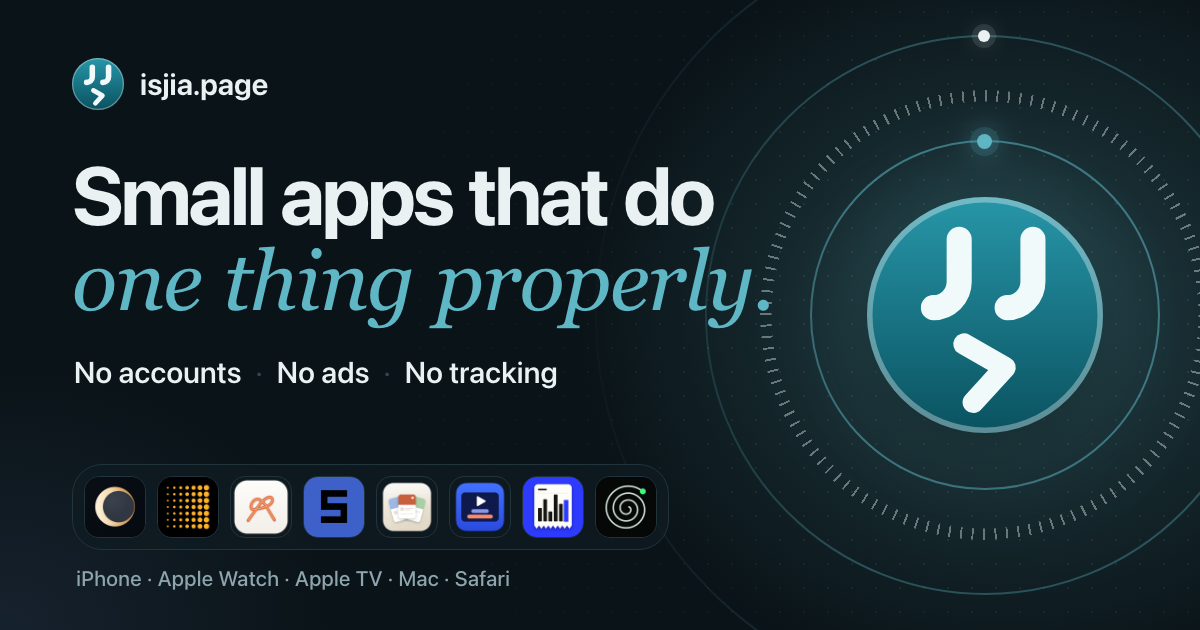
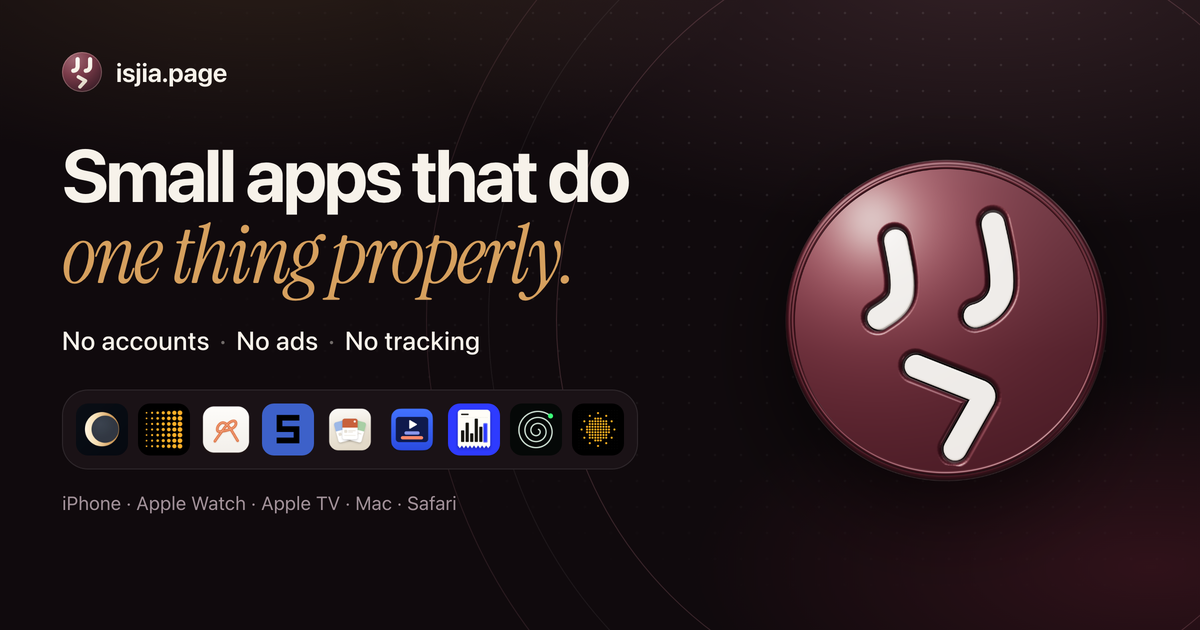
Replace the brand mark with the 3D oxblood disc and retune the palette
- Ship the JJ+">" mark as a satin-metal oxblood 3D disc (three.js render,
  exported 1024/512/180 + 4096 master); keep the flat vector for ≤32 px
- New favicon.svg/favicon-32.png/favicon.ico from the flat mark; the
  Apple touch icon is the 3D disc cropped to the disc and bled opaque
- Rebuild og-home.png at 1200×630 with the 3D mark and all nine app icons
- Palette "oxblood & bone": bone paper light theme (#f7f3ec / accent
  #7a2437), wine-black dark theme (#0e090b / accent #e0919f), stage
  tokens and hard-coded glows/bezel retuned to match
- theme-color metadata follows the new bg on all 20 pages
- DESIGN.md: round 4 notes, measured contrast and what was not verified

diff --git a/assets/style.css b/assets/style.css
@@ -9,24 +9,24 @@
 }
 
 :root {
-  --bg: #f8fafc;
-  --bg-soft: #f1f5f9;
-  --ink: #0f172a;
-  --ink-soft: #334155;
-  --muted: #64748b;
-  --card: #ffffff;
-  --line: #e2e8f0;
-  --line-strong: #cbd5e1;
-  --accent: #0284c7;
-  --accent-warm: #d97706;
-  --on-accent: #ffffff;
-  --accent-soft: rgba(2, 132, 199, 0.08);
-  --glow-a: rgba(2, 132, 199, 0.12);
-  --glow-b: rgba(217, 119, 6, 0.08);
-  --grid-dot: rgba(15, 23, 42, 0.05);
-  --grid-line: rgba(15, 23, 42, 0.02);
-  --shadow: 0 1px 2px rgba(15, 23, 42, 0.04), 0 12px 32px -20px rgba(15, 23, 42, 0.10);
-  --shadow-lift: 0 2px 4px rgba(15, 23, 42, 0.05), 0 24px 48px -24px rgba(15, 23, 42, 0.16);
+  --bg: #f7f3ec;
+  --bg-soft: #efe7dc;
+  --ink: #1d1216;
+  --ink-soft: #3a2b30;
+  --muted: #6e5b61;
+  --card: #fffdf9;
+  --line: #e6dbcf;
+  --line-strong: #d3c3b2;
+  --accent: #7a2437;
+  --accent-warm: #8a5d26;
+  --on-accent: #fdf8f1;
+  --accent-soft: rgba(122, 36, 55, 0.08);
+  --glow-a: rgba(122, 36, 55, 0.12);
+  --glow-b: rgba(138, 93, 38, 0.09);
+  --grid-dot: rgba(45, 25, 32, 0.06);
+  --grid-line: rgba(45, 25, 32, 0.022);
+  --shadow: 0 1px 2px rgba(45, 25, 32, 0.05), 0 12px 32px -20px rgba(45, 25, 32, 0.12);
+  --shadow-lift: 0 2px 4px rgba(45, 25, 32, 0.06), 0 24px 48px -24px rgba(45, 25, 32, 0.18);
   --radius: 18px;
   --app-accent: var(--accent);
   --serif: "Instrument Serif", ui-serif, "New York", "Iowan Old Style", Georgia, serif;
@@ -36,20 +36,20 @@
 
 @media (prefers-color-scheme: dark) {
   :root {
-    --bg: #090a10;
-    --bg-soft: #11131c;
-    --ink: #f8fafc;
-    --ink-soft: #cbd5e1;
-    --muted: #8290a5;
-    --card: #131622;
+    --bg: #0e090b;
+    --bg-soft: #171014;
+    --ink: #f7f2ea;
+    --ink-soft: #d8cbcd;
+    --muted: #a3929a;
+    --card: #191215;
     --line: rgba(255, 255, 255, 0.08);
     --line-strong: rgba(255, 255, 255, 0.16);
-    --accent: #38bdf8;
-    --accent-warm: #fbbf24;
-    --on-accent: #050811;
-    --accent-soft: rgba(56, 189, 248, 0.12);
-    --glow-a: rgba(56, 189, 248, 0.18);
-    --glow-b: rgba(245, 158, 11, 0.14);
+    --accent: #e0919f;
+    --accent-warm: #d6a05e;
+    --on-accent: #14090d;
+    --accent-soft: rgba(224, 145, 159, 0.12);
+    --glow-a: rgba(224, 145, 159, 0.16);
+    --glow-b: rgba(214, 160, 94, 0.12);
     --grid-dot: rgba(255, 255, 255, 0.08);
     --grid-line: rgba(255, 255, 255, 0.025);
     --shadow: 0 1px 2px rgba(0, 0, 0, 0.5), 0 16px 40px -20px rgba(0, 0, 0, 0.85);
@@ -101,13 +101,13 @@ img { max-width: 100%; display: block; }
 /* ---------- stage-local colours: cosmic dark-theme values shared by dark surfaces. ---------- */
 
 .stage, .shot-stage, .cta-band, .card.feature, .media {
-  --st-bg: #090a10;
-  --st-card: #131622;
-  --st-ink: #f8fafc;
-  --st-muted: #8290a5;
+  --st-bg: #100a0d;
+  --st-card: #1a1216;
+  --st-ink: #f7f2ea;
+  --st-muted: #a3929a;
   --st-line: rgba(255, 255, 255, 0.08);
-  --st-accent: #38bdf8;
-  --st-accent-warm: #fbbf24;
+  --st-accent: #e0919f;
+  --st-accent-warm: #d6a05e;
 }
 
 /* celestial dual-glow + precision dot-matrix shared by dark stages */
@@ -118,8 +118,8 @@ img { max-width: 100%; display: block; }
   z-index: -1;
   pointer-events: none;
   background:
-    radial-gradient(60% 50% at 30% -5%, rgba(245, 158, 11, 0.16), transparent 70%),
-    radial-gradient(70% 55% at 75% 0%, rgba(56, 189, 248, 0.18), transparent 72%),
+    radial-gradient(60% 50% at 30% -5%, rgba(214, 160, 94, 0.16), transparent 70%),
+    radial-gradient(70% 55% at 75% 0%, rgba(224, 145, 159, 0.18), transparent 72%),
     radial-gradient(var(--grid-dot) 1px, transparent 1.5px) 0 0 / 22px 22px;
   -webkit-mask-image: radial-gradient(95% 100% at 50% 0%, #000 30%, transparent 100%);
   mask-image: radial-gradient(95% 100% at 50% 0%, #000 30%, transparent 100%);
@@ -482,8 +482,8 @@ section.block { padding: 96px 22px 8px; }
   width: clamp(104px, 20vw, 236px);
   border-radius: 14% / 6.5%;
   overflow: hidden;
-  background: #05090b;
-  box-shadow: 0 0 0 5px #05090b, 0 0 0 6px rgba(255, 255, 255, 0.16), 0 36px 60px -24px rgba(0, 0, 0, 0.8);
+  background: #0a0709;
+  box-shadow: 0 0 0 5px #0a0709, 0 0 0 6px rgba(255, 255, 255, 0.16), 0 36px 60px -24px rgba(0, 0, 0, 0.8);
 }
 .phone img { width: 100%; height: auto; }
 .phone.lead { width: clamp(132px, 24vw, 280px); }
@@ -631,7 +631,7 @@ section.block { padding: 96px 22px 8px; }
   object-fit: initial;
   transform: translateX(-50%);
   border-radius: 14% / 6.5%;
-  box-shadow: 0 0 0 4px #05090b, 0 0 0 5px rgba(255, 255, 255, 0.16), 0 30px 50px -20px rgba(0, 0, 0, 0.8);
+  box-shadow: 0 0 0 4px #0a0709, 0 0 0 5px rgba(255, 255, 255, 0.16), 0 30px 50px -20px rgba(0, 0, 0, 0.8);
 }
 @media (prefers-reduced-motion: no-preference) {
   .card:focus-visible .media.well > img { translate: 0 -6px; }

diff --git a/support/index.html b/support/index.html
@@ -6,8 +6,8 @@
 <title>Support for Solis, Punctum, ThreadLite, Span, Wayfinder, Ordbro, Slip, Hairspring and DOT · isjia.page</title>
 <meta name="description" content="Support and FAQ for every JJ app: Solis, Punctum, ThreadLite, Span, Wayfinder, Ordbro, Slip, Hairspring and DOT. Contact, common questions and privacy policies in one place.">
 <link rel="canonical" href="https://app.isjia.page/support/">
-<meta name="theme-color" content="#f8fafc" media="(prefers-color-scheme: light)">
-<meta name="theme-color" content="#090a10" media="(prefers-color-scheme: dark)">
+<meta name="theme-color" content="#f7f3ec" media="(prefers-color-scheme: light)">
+<meta name="theme-color" content="#0e090b" media="(prefers-color-scheme: dark)">
 <meta property="og:type" content="website">
 <meta property="og:title" content="Support for Solis, Punctum, ThreadLite, Span, Wayfinder, Ordbro, Slip, Hairspring and DOT · isjia.page">
 <meta property="og:description" content="Support and FAQ for Solis, Punctum, ThreadLite, Span, Wayfinder, Ordbro, Slip, Hairspring and DOT.">

diff --git a/threadlite/index.html b/threadlite/index.html
@@ -6,8 +6,8 @@
 <title>ThreadLite — Keep long AI chats responsive in Safari</title>
 <meta name="description" content="ThreadLite helps long ChatGPT and Gemini chats stay responsive in Safari on Mac. It never hides or deletes messages, makes no network requests and stores no conversation content.">
 <link rel="canonical" href="https://app.isjia.page/threadlite/">
-<meta name="theme-color" content="#f8fafc" media="(prefers-color-scheme: light)">
-<meta name="theme-color" content="#090a10" media="(prefers-color-scheme: dark)">
+<meta name="theme-color" content="#f7f3ec" media="(prefers-color-scheme: light)">
+<meta name="theme-color" content="#0e090b" media="(prefers-color-scheme: dark)">
 <meta property="og:type" content="website">
 <meta property="og:title" content="ThreadLite — Keep long AI chats responsive in Safari">
 <meta property="og:description" content="Long AI chats that stay responsive in Safari — reversible, fail-open and entirely local.">

diff --git a/index.html b/index.html
@@ -6,8 +6,8 @@
 <title>JJ · small apps for Apple devices</title>
 <meta name="description" content="JJ is an independent developer building a small family of quiet, single-purpose apps for iPhone, Apple Watch, Apple TV, Mac and Safari — Solis, Punctum, ThreadLite, Span, Wayfinder, Ordbro, Slip, Hairspring and DOT.">
 <link rel="canonical" href="https://app.isjia.page/">
-<meta name="theme-color" content="#f8fafc" media="(prefers-color-scheme: light)">
-<meta name="theme-color" content="#090a10" media="(prefers-color-scheme: dark)">
+<meta name="theme-color" content="#f7f3ec" media="(prefers-color-scheme: light)">
+<meta name="theme-color" content="#0e090b" media="(prefers-color-scheme: dark)">
 <meta property="og:type" content="website">
 <meta property="og:title" content="JJ · small apps for Apple devices">
 <meta property="og:description" content="A small family of quiet, single-purpose apps — designed, built and shipped solo.">

diff --git a/wayfinder/index.html b/wayfinder/index.html
@@ -6,8 +6,8 @@
 <title>Wayfinder — Tabs, sessions and a calm new tab</title>
 <meta name="description" content="Wayfinder lets you search your tabs, saved pages and sessions from one palette, save a window as a task and restore it later. Safari on Mac, plus Chrome. Free, local, no account.">
 <link rel="canonical" href="https://app.isjia.page/wayfinder/">
-<meta name="theme-color" content="#f8fafc" media="(prefers-color-scheme: light)">
-<meta name="theme-color" content="#090a10" media="(prefers-color-scheme: dark)">
+<meta name="theme-color" content="#f7f3ec" media="(prefers-color-scheme: light)">
+<meta name="theme-color" content="#0e090b" media="(prefers-color-scheme: dark)">
 <meta property="og:type" content="website">
 <meta property="og:title" content="Wayfinder — Tabs, sessions and a calm new tab">
 <meta property="og:description" content="Search tabs, saved pages and sessions from one palette, then put a whole window back.">

diff --git a/hairspring/index.html b/hairspring/index.html
@@ -6,8 +6,8 @@
 <title>Hairspring — A clock drawn with threads</title>
 <meta name="description" content="Hairspring is a native clock for Apple Watch and Apple TV: every second is a label tied to the minute by a physical thread. Watch is free; TV has a 7-day trial and a one-time unlock.">
 <link rel="canonical" href="https://app.isjia.page/hairspring/">
-<meta name="theme-color" content="#f8fafc" media="(prefers-color-scheme: light)">
-<meta name="theme-color" content="#090a10" media="(prefers-color-scheme: dark)">
+<meta name="theme-color" content="#f7f3ec" media="(prefers-color-scheme: light)">
+<meta name="theme-color" content="#0e090b" media="(prefers-color-scheme: dark)">
 <meta property="og:type" content="website">
 <meta property="og:title" content="Hairspring — A clock drawn with threads">
 <meta property="og:description" content="Time as movement, not digits. Apple Watch and Apple TV.">

diff --git a/dot/index.html b/dot/index.html
@@ -6,8 +6,8 @@
 <title>DOT — Weather, in dots.</title>
 <meta name="description" content="DOT is a design-first weather app in preparation for iPhone, iOS 17 or later: animated dot scenes, a clear 24-hour forecast and widgets. Live weather is powered by Apple WeatherKit.">
 <link rel="canonical" href="https://app.isjia.page/dot/">
-<meta name="theme-color" content="#f8fafc" media="(prefers-color-scheme: light)">
-<meta name="theme-color" content="#090a10" media="(prefers-color-scheme: dark)">
+<meta name="theme-color" content="#f7f3ec" media="(prefers-color-scheme: light)">
+<meta name="theme-color" content="#0e090b" media="(prefers-color-scheme: dark)">
 <meta property="og:type" content="website">
 <meta property="og:title" content="DOT — Weather, in dots.">
 <meta property="og:description" content="Weather, in dots. In preparation for iPhone, with live weather powered by Apple WeatherKit.">

diff --git a/slip/index.html b/slip/index.html
@@ -6,8 +6,8 @@
 <title>Slip — Receipts &amp; daily budget</title>
 <meta name="description" content="Slip is a local-only expense ledger for iPhone. Log a purchase, scan the receipt, and see what is left to spend today. No account, no bank connection, no tracking.">
 <link rel="canonical" href="https://app.isjia.page/slip/">
-<meta name="theme-color" content="#f8fafc" media="(prefers-color-scheme: light)">
-<meta name="theme-color" content="#090a10" media="(prefers-color-scheme: dark)">
+<meta name="theme-color" content="#f7f3ec" media="(prefers-color-scheme: light)">
+<meta name="theme-color" content="#0e090b" media="(prefers-color-scheme: dark)">
 <meta property="og:type" content="website">
 <meta property="og:title" content="Slip — Receipts &amp; daily budget">
 <meta property="og:description" content="A private iPhone ledger: log what you spend, scan the receipt, see what is left today.">

diff --git a/ordbro/index.html b/ordbro/index.html
@@ -6,8 +6,8 @@
 <title>Ordbro — Translate pages and video subtitles</title>
 <meta name="description" content="Ordbro translates web pages and video subtitles into your own language with your own AI key. No account, no server, no subscription. Safari on Mac.">
 <link rel="canonical" href="https://app.isjia.page/ordbro/">
-<meta name="theme-color" content="#f8fafc" media="(prefers-color-scheme: light)">
-<meta name="theme-color" content="#090a10" media="(prefers-color-scheme: dark)">
+<meta name="theme-color" content="#f7f3ec" media="(prefers-color-scheme: light)">
+<meta name="theme-color" content="#0e090b" media="(prefers-color-scheme: dark)">
 <meta property="og:type" content="website">
 <meta property="og:title" content="Ordbro — Translate pages and video subtitles">
 <meta property="og:description" content="A bridge between languages. Your own AI key, no account, no server.">

diff --git a/span/index.html b/span/index.html
@@ -6,8 +6,8 @@
 <title>Span — Plan the day you actually have</title>
 <meta name="description" content="Span is a calm planning layer over Apple Calendar and Reminders. Read-only, on-device, no server and no sync of its own. iPhone, iOS 17 or later.">
 <link rel="canonical" href="https://app.isjia.page/span/">
-<meta name="theme-color" content="#f8fafc" media="(prefers-color-scheme: light)">
-<meta name="theme-color" content="#090a10" media="(prefers-color-scheme: dark)">
+<meta name="theme-color" content="#f7f3ec" media="(prefers-color-scheme: light)">
+<meta name="theme-color" content="#0e090b" media="(prefers-color-scheme: dark)">
 <meta property="og:type" content="website">
 <meta property="og:title" content="Span — Plan the day you actually have">
 <meta property="og:description" content="A calm planning layer over the Calendar and Reminders you already keep.">

diff --git a/solis/index.html b/solis/index.html
@@ -6,8 +6,8 @@
 <title>Solis — Sun &amp; Moon</title>
 <meta name="description" content="Solis shows sunrise, sunset, golden hour, twilight, Moon phases and Earthlight for iPhone, Apple Watch and Apple TV. One-time purchase, no subscription, no tracking.">
 <link rel="canonical" href="https://app.isjia.page/solis/">
-<meta name="theme-color" content="#f8fafc" media="(prefers-color-scheme: light)">
-<meta name="theme-color" content="#090a10" media="(prefers-color-scheme: dark)">
+<meta name="theme-color" content="#f7f3ec" media="(prefers-color-scheme: light)">
+<meta name="theme-color" content="#0e090b" media="(prefers-color-scheme: dark)">
 <meta property="og:type" content="website">
 <meta property="og:title" content="Solis — Sun &amp; Moon">
 <meta property="og:description" content="The daylight, at a glance: sunrise, golden hour, Moon phases and Earthlight.">

diff --git a/hairspring/privacy/index.html b/hairspring/privacy/index.html
@@ -6,8 +6,8 @@
 <title>Hairspring Privacy Policy</title>
 <meta name="description" content="Privacy information for Hairspring on Apple Watch and Apple TV: preferences stay on the device, and there are no analytics, tracking or advertising SDKs.">
 <link rel="canonical" href="https://app.isjia.page/hairspring/privacy/">
-<meta name="theme-color" content="#f8fafc" media="(prefers-color-scheme: light)">
-<meta name="theme-color" content="#090a10" media="(prefers-color-scheme: dark)">
+<meta name="theme-color" content="#f7f3ec" media="(prefers-color-scheme: light)">
+<meta name="theme-color" content="#0e090b" media="(prefers-color-scheme: dark)">
 <meta name="robots" content="index, follow">
 <link rel="icon" href="../../assets/favicon.svg" type="image/svg+xml">
 <link rel="icon" href="../../assets/favicon-32.png" type="image/png" sizes="32x32">
